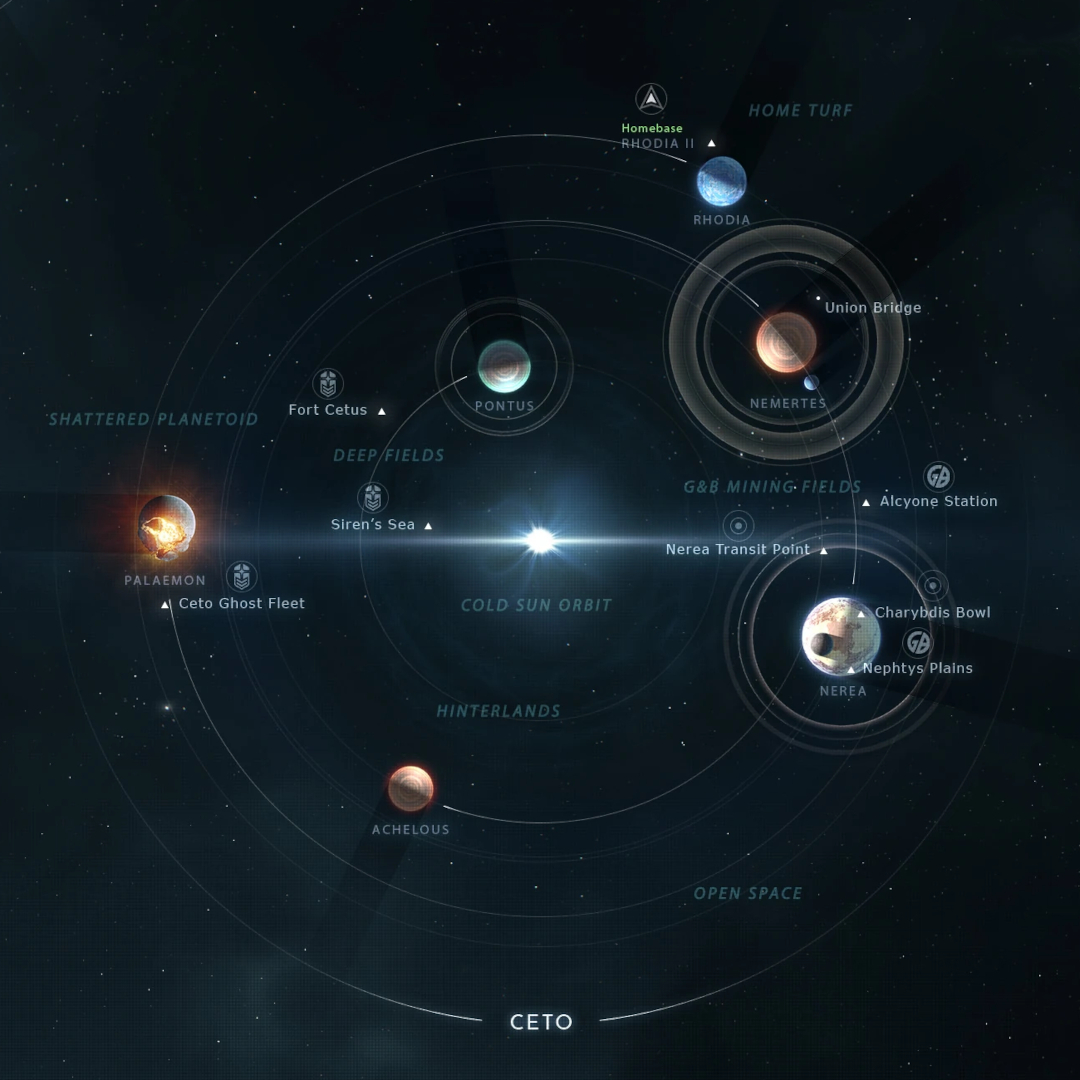
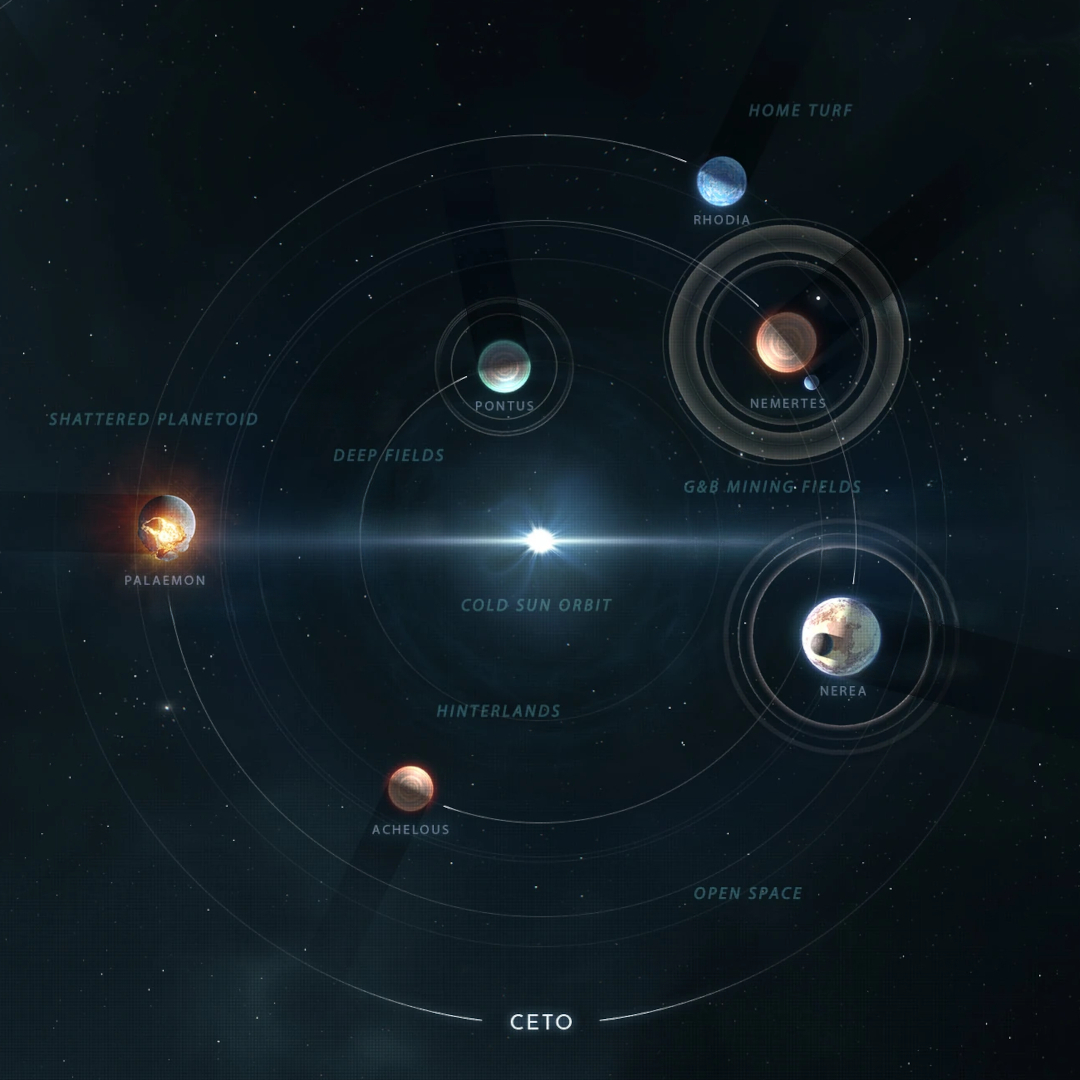
updates

diff --git a/Games/Booklets/Everspace 2/maps/02_Sectors/Ceto.html b/Games/Booklets/Everspace 2/maps/02_Sectors/Ceto.html
@@ -10,11 +10,7 @@
   <svg viewBox="0 0 1080 1080" style="cursor: default;">
     <defs>
       <clipPath id="galaxy_border"><rect x="20" y="20" width="80" height="80" rx="10" ry="10"/></clipPath>
-      <marker id="arrowhead_system" markerWidth="10" markerHeight="40" refX="40" refY="5" orient="auto"><polygon points="0 0, 10 5, 0 10" fill="#dbdbdb"/></marker>
-      <marker id="crystal" markerWidth="10" markerHeight="40" refX="40" refY="5" orient="auto"><polygon points="50,10 90,50 50,90 10,50" fill="none" stroke="black" stroke-width="2"/></marker>
       
-      <marker id="arrowhead_sector_from" markerWidth="10" markerHeight="40" refX="24" refY="5" orient="auto"><polygon points="0 0, 10 5, 0 10" fill="#00ff00"/></marker>
-      <marker id="arrowhead_sector_towa" markerWidth="10" markerHeight="40" refX="-24" refY="5" orient="auto"><polygon points="10 5, 0 0, 0 10" fill="#00ff00"/></marker>
     </defs>
 
     <image href="Ceto.jpg" width="1080" height="1080"/>
@@ -25,92 +21,92 @@
     </g>
 
     <g data-system="BERGBAU-RUINE" class="overlay trans_center" onclick="parent.system_click(this);">
-      <polygon points="600,48 620,68 600,88 580,68" fill="#00000000" stroke="#ffffff" stroke-width="2" class="sector_img"/>
-      <text x="600" y="108" font-size="14" text-anchor="middle" fill="#dbdbdb" font-family="Freelancer">BERGBAU-RUINE</text>
+      <polygon points="580,100 600,120 580,140 560,120" fill="#00000000" stroke="#ffffff" stroke-width="2" class="sector_img"/>
+      <text x="580" y="160" font-size="14" text-anchor="middle" fill="#dbdbdb" font-family="Freelancer">BERGBAU-RUINE</text>
     </g>
     <g data-system="CETO OUTER RIM" class="overlay trans_center" onclick="parent.system_click(this);">
-      <polygon points="544,130 564,150 544,170 524,150" fill="#00000000" stroke="#ffffff" stroke-width="2" class="sector_img"/>
-      <text x="544" y="190" font-size="14" text-anchor="middle" fill="#dbdbdb" font-family="Freelancer">CETO OUTER RIM</text>
+      <polygon points="520,160 540,180 520,200 500,180" fill="#00000000" stroke="#ffffff" stroke-width="2" class="sector_img"/>
+      <text x="520" y="220" font-size="14" text-anchor="middle" fill="#dbdbdb" font-family="Freelancer">CETO OUTER RIM</text>
     </g>
     <g data-system="RHODIA ORBIT" class="overlay trans_center" onclick="parent.system_click(this);">
-      <polygon points="746,114 766,134 746,154 726,134" fill="#00000000" stroke="#ffffff" stroke-width="2" class="sector_img"/>
-      <text x="746" y="174" font-size="14" text-anchor="middle" fill="#dbdbdb" font-family="Freelancer">RHODIA ORBIT</text>
+      <polygon points="700,120 720,140 700,160 680,140" fill="#00000000" stroke="#ffffff" stroke-width="2" class="sector_img"/>
+      <text x="700" y="180" font-size="14" text-anchor="middle" fill="#dbdbdb" font-family="Freelancer">RHODIA ORBIT</text>
     </g>
     <g data-system="RHODIA II" class="overlay trans_center" onclick="parent.system_click(this);">
-      <polygon points="760,110 780,130 760,150 740,130" fill="#00000000" stroke="#ffffff" stroke-width="2" class="sector_img"/>
-      <text x="760" y="170" font-size="14" text-anchor="middle" fill="#dbdbdb" font-family="Freelancer">RHODIA II</text>
+      <polygon points="760,180 780,200 760,220 740,200" fill="#00000000" stroke="#ffffff" stroke-width="2" class="sector_img"/>
+      <text x="760" y="240" font-size="14" text-anchor="middle" fill="#dbdbdb" font-family="Freelancer">RHODIA II</text>
     </g>
-    <g data-system="aethon" class="overlay trans_center" onclick="parent.system_click(this);">
+    <g data-system="OUTLAW AUSSENPOSTEN" class="overlay trans_center" onclick="parent.system_click(this);">
       <polygon points="288,248 308,268 288,288 268,268" fill="#00000000" stroke="#ffffff" stroke-width="2" class="sector_img"/>
-      <text x="288" y="308" font-size="14" text-anchor="middle" fill="#dbdbdb" font-family="Freelancer">AETHON</text>
+      <text x="288" y="308" font-size="14" text-anchor="middle" fill="#dbdbdb" font-family="Freelancer">OUTLAW AUSSENPOSTEN</text>
     </g>
-    <g data-system="aethon" class="overlay trans_center" onclick="parent.system_click(this);">
-      <polygon points="830,288 850,308 830,328 810,308" fill="#00000000" stroke="#ffffff" stroke-width="2" class="sector_img"/>
-      <text x="830" y="348" font-size="14" text-anchor="middle" fill="#dbdbdb" font-family="Freelancer">AETHON</text>
+    <g data-system="UNION BRIDGE" class="overlay trans_center" onclick="parent.system_click(this);">
+      <polygon points="790,280 810,300 790,320 770,300" fill="#00000000" stroke="#ffffff" stroke-width="2" class="sector_img"/>
+      <text x="790" y="340" font-size="14" text-anchor="middle" fill="#dbdbdb" font-family="Freelancer">UNION BRIDGE</text>
     </g>
-    <g data-system="aethon" class="overlay trans_center" onclick="parent.system_click(this);">
+    <g data-system="UNBEKANNT" class="overlay trans_center" onclick="parent.system_click(this);">
       <polygon points="840,320 860,340 840,360 820,340" fill="#00000000" stroke="#ffffff" stroke-width="2" class="sector_img"/>
-      <text x="840" y="380" font-size="14" text-anchor="middle" fill="#dbdbdb" font-family="Freelancer">AETHON</text>
+      <text x="840" y="380" font-size="14" text-anchor="middle" fill="#dbdbdb" font-family="Freelancer">UNBEKANNT</text>
     </g>
-    <g data-system="aethon" class="overlay trans_center" onclick="parent.system_click(this);">
+    <g data-system="SCHIFFSWRACK" class="overlay trans_center" onclick="parent.system_click(this);">
       <polygon points="960,280 980,300 960,320 940,300" fill="#00000000" stroke="#ffffff" stroke-width="2" class="sector_img"/>
-      <text x="960" y="340" font-size="14" text-anchor="middle" fill="#dbdbdb" font-family="Freelancer">AETHON</text>
+      <text x="960" y="340" font-size="14" text-anchor="middle" fill="#dbdbdb" font-family="Freelancer">SCHIFFSWRACK</text>
     </g>
-    <g data-system="aethon" class="overlay trans_center" onclick="parent.system_click(this);">
+    <g data-system="OUTLAW GRENZLAND" class="overlay trans_center" onclick="parent.system_click(this);">
       <polygon points="670,362 690,382 670,402 650,382" fill="#00000000" stroke="#ffffff" stroke-width="2" class="sector_img"/>
-      <text x="670" y="422" font-size="14" text-anchor="middle" fill="#dbdbdb" font-family="Freelancer">AETHON</text>
+      <text x="670" y="422" font-size="14" text-anchor="middle" fill="#dbdbdb" font-family="Freelancer">OUTLAW GRENZLAND</text>
     </g>
-    <g data-system="aethon" class="overlay trans_center" onclick="parent.system_click(this);">
-      <polygon points="90,450 110,470 90,490 70,470" fill="#00000000" stroke="#ffffff" stroke-width="2" class="sector_img"/>
-      <text x="90" y="510" font-size="14" text-anchor="middle" fill="#dbdbdb" font-family="Freelancer">AETHON</text>
+    <g data-system="ZERSTÖRTE FÖRDERSTATION" class="overlay trans_center" onclick="parent.system_click(this);">
+      <polygon points="100,450 120,470 100,490 80,470" fill="#00000000" stroke="#ffffff" stroke-width="2" class="sector_img"/>
+      <text x="100" y="510" font-size="14" text-anchor="middle" fill="#dbdbdb" font-family="Freelancer">ZERSTÖRTE FÖRDERSTATION</text>
     </g>
-    <g data-system="aethon" class="overlay trans_center" onclick="parent.system_click(this);">
+    <g data-system="VERLASSENE STATION" class="overlay trans_center" onclick="parent.system_click(this);">
       <polygon points="390,450 410,470 390,490 370,470" fill="#00000000" stroke="#ffffff" stroke-width="2" class="sector_img"/>
-      <text x="390" y="510" font-size="14" text-anchor="middle" fill="#dbdbdb" font-family="Freelancer">AETHON</text>
+      <text x="390" y="510" font-size="14" text-anchor="middle" fill="#dbdbdb" font-family="Freelancer">VERLASSENE STATION</text>
     </g>
-    <g data-system="aethon" class="overlay trans_center" onclick="parent.system_click(this);">
+    <g data-system="ASTEROIDENFELD" class="overlay trans_center" onclick="parent.system_click(this);">
       <polygon points="588,416 608,436 588,456 568,436" fill="#00000000" stroke="#ffffff" stroke-width="2" class="sector_img"/>
-      <text x="588" y="476" font-size="14" text-anchor="middle" fill="#dbdbdb" font-family="Freelancer">AETHON</text>
+      <text x="588" y="476" font-size="14" text-anchor="middle" fill="#dbdbdb" font-family="Freelancer">ASTEROIDENFELD</text>
     </g>
-    <g data-system="aethon" class="overlay trans_center" onclick="parent.system_click(this);">
+    <g data-system="FÖRDERSTÄTTE" class="overlay trans_center" onclick="parent.system_click(this);">
       <polygon points="736,440 756,460 736,480 716,460" fill="#00000000" stroke="#ffffff" stroke-width="2" class="sector_img"/>
-      <text x="736" y="500" font-size="14" text-anchor="middle" fill="#dbdbdb" font-family="Freelancer">AETHON</text>
+      <text x="736" y="500" font-size="14" text-anchor="middle" fill="#dbdbdb" font-family="Freelancer">FÖRDERSTÄTTE</text>
     </g>
-    <g data-system="aethon" class="overlay trans_center" onclick="parent.system_click(this);">
+    <g data-system="ALKIONE-STATION" class="overlay trans_center" onclick="parent.system_click(this);">
       <polygon points="884,442 904,462 884,482 864,462" fill="#00000000" stroke="#ffffff" stroke-width="2" class="sector_img"/>
-      <text x="884" y="502" font-size="14" text-anchor="middle" fill="#dbdbdb" font-family="Freelancer">AETHON</text>
+      <text x="884" y="502" font-size="14" text-anchor="middle" fill="#dbdbdb" font-family="Freelancer">ALKIONE-STATION</text>
     </g>
-    <g data-system="aethon" class="overlay trans_center" onclick="parent.system_click(this);">
-      <polygon points="110,516 130,536 110,556 90,536" fill="#00000000" stroke="#ffffff" stroke-width="2" class="sector_img"/>
-      <text x="110" y="576" font-size="14" text-anchor="middle" fill="#dbdbdb" font-family="Freelancer">AETHON</text>
+    <g data-system="PALAEMONS WUNDE" class="overlay trans_center" onclick="parent.system_click(this);">
+      <polygon points="140,520 160,540 140,560 120,540" fill="#00000000" stroke="#ffffff" stroke-width="2" class="sector_img"/>
+      <text x="140" y="580" font-size="14" text-anchor="middle" fill="#dbdbdb" font-family="Freelancer">PALAEMONS WUNDE</text>
     </g>
-    <g data-system="aethon" class="overlay trans_center" onclick="parent.system_click(this);">
-      <polygon points="110,535 130,555 110,575 90,555" fill="#00000000" stroke="#ffffff" stroke-width="2" class="sector_img"/>
-      <text x="110" y="595" font-size="14" text-anchor="middle" fill="#dbdbdb" font-family="Freelancer">AETHON</text>
+    <g data-system="GEISTERFLOTTE" class="overlay trans_center" onclick="parent.system_click(this);">
+      <polygon points="180,550 200,570 180,590 160,570" fill="#00000000" stroke="#ffffff" stroke-width="2" class="sector_img"/>
+      <text x="180" y="610" font-size="14" text-anchor="middle" fill="#dbdbdb" font-family="Freelancer">GEISTERFLOTTE</text>
     </g>
-    <g data-system="aethon" class="overlay trans_center" onclick="parent.system_click(this);">
+    <g data-system="OUTLAW-BASIS" class="overlay trans_center" onclick="parent.system_click(this);">
       <polygon points="348,514 368,534 348,554 328,534" fill="#00000000" stroke="#ffffff" stroke-width="2" class="sector_img"/>
-      <text x="348" y="574" font-size="14" text-anchor="middle" fill="#dbdbdb" font-family="Freelancer">AETHON</text>
+      <text x="348" y="574" font-size="14" text-anchor="middle" fill="#dbdbdb" font-family="Freelancer">OUTLAW-BASIS</text>
     </g>
-    <g data-system="aethon" class="overlay trans_center" onclick="parent.system_click(this);">
+    <g data-system="MEER DER SIRENEN" class="overlay trans_center" onclick="parent.system_click(this);">
       <polygon points="406,538 426,558 406,578 386,558" fill="#00000000" stroke="#ffffff" stroke-width="2" class="sector_img"/>
-      <text x="406" y="598" font-size="14" text-anchor="middle" fill="#dbdbdb" font-family="Freelancer">AETHON</text>
+      <text x="406" y="598" font-size="14" text-anchor="middle" fill="#dbdbdb" font-family="Freelancer">MEER DER SIRENEN</text>
     </g>
-    <g data-system="aethon" class="overlay trans_center" onclick="parent.system_click(this);">
+    <g data-system="CETO ORBIT" class="overlay trans_center" onclick="parent.system_click(this);">
       <polygon points="550,544 570,564 550,584 530,564" fill="#00000000" stroke="#ffffff" stroke-width="2" class="sector_img"/>
-      <text x="550" y="604" font-size="14" text-anchor="middle" fill="#dbdbdb" font-family="Freelancer">AETHON</text>
+      <text x="550" y="604" font-size="14" text-anchor="middle" fill="#dbdbdb" font-family="Freelancer">CETO ORBIT</text>
     </g>
-    <g data-system="aethon" class="overlay trans_center" onclick="parent.system_click(this);">
+    <g data-system="VERLASSENE FÖRDERSTATION" class="overlay trans_center" onclick="parent.system_click(this);">
       <polygon points="640,510 660,530 640,550 620,530" fill="#00000000" stroke="#ffffff" stroke-width="2" class="sector_img"/>
-      <text x="640" y="570" font-size="14" text-anchor="middle" fill="#dbdbdb" font-family="Freelancer">AETHON</text>
+      <text x="640" y="570" font-size="14" text-anchor="middle" fill="#dbdbdb" font-family="Freelancer">VERLASSENE FÖRDERSTATION</text>
     </g>
     <g data-system="aethon" class="overlay trans_center" onclick="parent.system_click(this);">
       <polygon points="888,636 908,656 888,676 868,656" fill="#00000000" stroke="#ffffff" stroke-width="2" class="sector_img"/>
-      <text x="888" y="696" font-size="14" text-anchor="middle" fill="#dbdbdb" font-family="Freelancer">AETHON</text>
+      <text x="888" y="696" font-size="14" text-anchor="middle" fill="#dbdbdb" font-family="Freelancer">AETHON9</text>
     </g>
     <g data-system="aethon" class="overlay trans_center" onclick="parent.system_click(this);">
       <polygon points="886,650 906,670 886,690 866,670" fill="#00000000" stroke="#ffffff" stroke-width="2" class="sector_img"/>
-      <text x="886" y="710" font-size="14" text-anchor="middle" fill="#dbdbdb" font-family="Freelancer">AETHON</text>
+      <text x="886" y="710" font-size="14" text-anchor="middle" fill="#dbdbdb" font-family="Freelancer">AETHON0</text>
     </g>
     <g data-system="aethon" class="overlay trans_center" onclick="parent.system_click(this);">
       <polygon points="266,810 286,830 266,850 246,830" fill="#00000000" stroke="#ffffff" stroke-width="2" class="sector_img"/>
@@ -124,13 +120,9 @@
       <polygon points="540,780 560,800 540,820 520,800" fill="#00000000" stroke="#ffffff" stroke-width="2" class="sector_img"/>
       <text x="540" y="840" font-size="14" text-anchor="middle" fill="#dbdbdb" font-family="Freelancer">AETHON</text>
     </g>
-    <g data-system="aethon" class="overlay trans_center" onclick="parent.system_click(this);">
+    <g data-system="VERLASSENE ANLAGE" class="overlay trans_center" onclick="parent.system_click(this);">
       <polygon points="1012,580 1032,600 1012,620 992,600" fill="#00000000" stroke="#ffffff" stroke-width="2" class="sector_img"/>
-      <text x="1012" y="640" font-size="14" text-anchor="middle" fill="#dbdbdb" font-family="Freelancer">AETHON</text>
-    </g>
-
-    <g class="connectors">
-      <line x1="1012" y1="600" x2="466" y2="524" stroke="#ff00ff" stroke-width="2"/><!--Aethon - Union-->
+      <text x="1012" y="640" font-size="14" text-anchor="middle" fill="#dbdbdb" font-family="Freelancer">VERLASSENE ANLAGE</text>
     </g>
   </svg>
 </div>
@@ -140,22 +132,22 @@
   <div data-system="CETO OUTER RIM" class="txt coalition" onclick="parent.system_click(this);">CETO OUTER RIM</div>
   <div data-system="RHODIA ORBIT" class="txt coalition" onclick="parent.system_click(this);">RHODIA ORBIT</div>
   <div data-system="RHODIA II" class="txt coalition" onclick="parent.system_click(this);">RHODIA II</div>
-  <div data-system="Hieron" class="txt domkavash" onclick="parent.system_click(this);">Rhodia Orbit</div>
-  <div data-system="Hyperspace" class="txt domkavash" onclick="parent.system_click(this);">Ship Wreck</div>
-  <div data-system="Jokusuka" class="txt domkavash" onclick="parent.system_click(this);">Station Debris</div>
-  <div data-system="Kalinin" class="txt coalition" onclick="parent.system_click(this);">Union Bridge</div>
-  <div data-system="Kandiris" class="txt nomads" onclick="parent.system_click(this);">Asteroid Field</div>
-  <div data-system="Lemnos" class="txt domkavash" onclick="parent.system_click(this);">Derelict Station</div>
-  <div data-system="Mandar" class="txt nomads" onclick="parent.system_click(this);">Fort Cetus</div>
-  <div data-system="Menton" class="txt domkavash" onclick="parent.system_click(this);">G&B Mining Grounds</div>
-  <div data-system="Meschhed" class="txt coalition" onclick="parent.system_click(this);">Outlaw Base</div>
-  <div data-system="Mira Ceti" class="txt domkavash" onclick="parent.system_click(this);">Outlaw Outpost</div>
-  <div data-system="Mitra" class="txt domkavash" onclick="parent.system_click(this);">Siren's Sea</div>
-  <div data-system="Nedjep" class="txt coalition" onclick="parent.system_click(this);">Abandoned Facility</div>
-  <div data-system="New Beijing" class="txt coalition" onclick="parent.system_click(this);">Alcyone Station</div>
-  <div data-system="New Hongkong" class="txt coalition" onclick="parent.system_click(this);">Charybdis Bowl</div>
-  <div data-system="New Mekka" class="txt coalition" onclick="parent.system_click(this);">Deserted Mining Station</div>
-  <div data-system="Pretoria" class="txt domkavash" onclick="parent.system_click(this);">Mining Site</div>
+  <div data-system="UNION BRIDGE" class="txt domkavash" onclick="parent.system_click(this);">UNION BRIDGE</div>
+  <div data-system="SCHIFFSWRACK" class="txt domkavash" onclick="parent.system_click(this);">SCHIFFSWRACK</div>
+  <div data-system="OUTLAW GRENZLAND" class="txt domkavash" onclick="parent.system_click(this);">OUTLAW GRENZLAND</div>
+  <div data-system="ASTEROIDENFELD" class="txt coalition" onclick="parent.system_click(this);">ASTEROIDENFELD</div>
+  <div data-system="VERLASSENE STATION" class="txt nomads" onclick="parent.system_click(this);">VERLASSENE STATION</div>
+  <div data-system="OUTLAW AUSSENPOSTEN" class="txt domkavash" onclick="parent.system_click(this);">OUTLAW AUSSENPOSTEN</div>
+  <div data-system="ZERSTÖRTE FÖRDERSTATION" class="txt nomads" onclick="parent.system_click(this);">ZERSTÖRTE FÖRDERSTATION</div>
+  <div data-system="PALAEMONS WUNDE" class="txt domkavash" onclick="parent.system_click(this);">PALAEMONS WUNDE</div>
+  <div data-system="GEISTERFLOTTE" class="txt coalition" onclick="parent.system_click(this);">GEISTERFLOTTE</div>
+  <div data-system="OUTLAW-BASIS" class="txt domkavash" onclick="parent.system_click(this);">OUTLAW-BASIS</div>
+  <div data-system="MEER DER SIRENEN" class="txt domkavash" onclick="parent.system_click(this);">MEER DER SIRENEN</div>
+  <div data-system="CETO ORBIT" class="txt coalition" onclick="parent.system_click(this);">CETO ORBIT</div>
+  <div data-system="VERLASSENE FÖRDERSTATION" class="txt coalition" onclick="parent.system_click(this);">VERLASSENE FÖRDERSTATION</div>
+  <div data-system="FÖRDERSTÄTTE" class="txt coalition" onclick="parent.system_click(this);">FÖRDERSTÄTTE</div>
+  <div data-system="ALKIONE-STATION" class="txt coalition" onclick="parent.system_click(this);">ALKIONE-STATION</div>
+  <div data-system="Pretoria" class="txt domkavash" onclick="parent.system_click(this);">VERLASSENE ANLAGE</div>
   <div data-system="Ptah" class="txt domkavash" onclick="parent.system_click(this);">G&B Refinery</div>
   <div data-system="Scotia" class="txt domkavash" onclick="parent.system_click(this);">Nephtys Plains</div>
   <div data-system="Sovetskaya" class="txt coalition" onclick="parent.system_click(this);">Nerea Transit Point</div>
